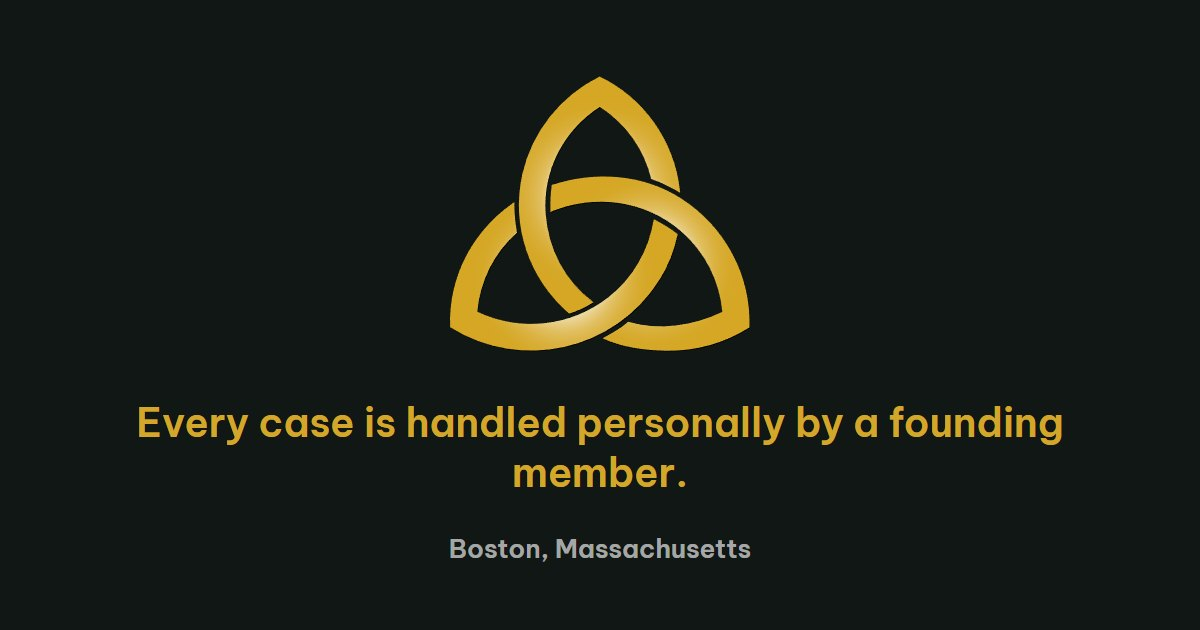
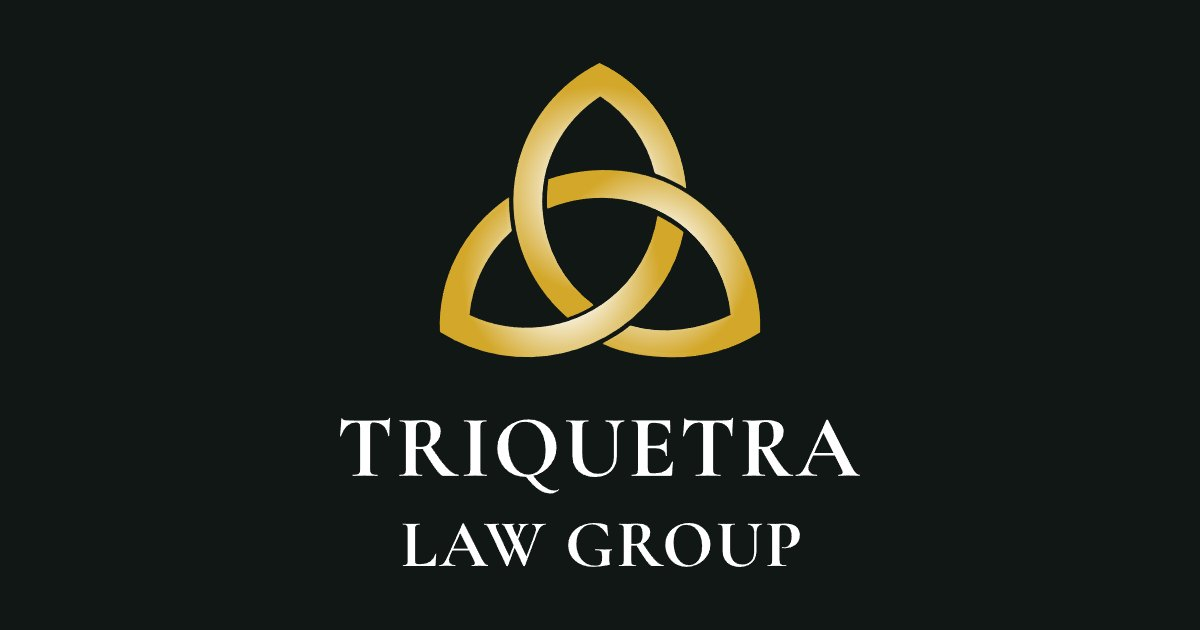
Her lockup, in her own lettering, is what a shared link shows
Adam: the picture WhatsApp shows should be her logo and its text, not a
tagline and a city set in our typeface beside it. A law firm's name in a
web sans under its mark reads as someone else's letterhead.

So a card can now name its own lockup (art.share) and make_share.js sends
that alone on the card's ground. Hers is Export/SVG/Fix Q R.svg - the mark
over TRIQUETRA / LAW GROUP with every letter outlined, so it renders the
same everywhere and needs no font - cut free of its square ground. Cards
without one are struck as before.

Claude-Session: https://claude.ai/code/session_01CmuposDdfqni3Q5Y4ufJKx

Changed region(s): [[0.3392, 0.0905, 0.6475, 0.573], [0.0925, 0.6333, 0.8942, 0.7841], [0.3392, 0.8143, 0.6783, 0.9048]]

diff --git a/tools/card/make_share.js b/tools/card/make_share.js
@@ -48,6 +48,17 @@ function page(card) {
   const bg = theme.bg || icon.bg || '#000';
   const accent = theme.accent || '#fff';
 
+  /* A CARD WITH ITS OWN LOCKUP (art.share: the logo with its name, as the
+     business's designer set it) sends that and nothing else - no tagline,
+     no city, nothing in our typeface standing next to theirs. */
+  const lock = (card.art || {}).share && path.join(ROOT, card.art.share);
+  if (lock && fs.existsSync(lock)) return `<!doctype html><meta charset="utf-8"><style>
+*{margin:0;padding:0}
+html,body{width:${W}px;height:${H}px}
+body{background:${bg};display:grid;place-items:center}
+img{height:${Math.round(H * 0.8)}px;width:auto;display:block}
+</style><img src="${dataUri(lock, mimeOf(lock))}" alt="">`;
+
   const src = icon.src && path.join(ROOT, icon.src);
   const logo = src && fs.existsSync(src) ? dataUri(src, mimeOf(src)) : null;
 
